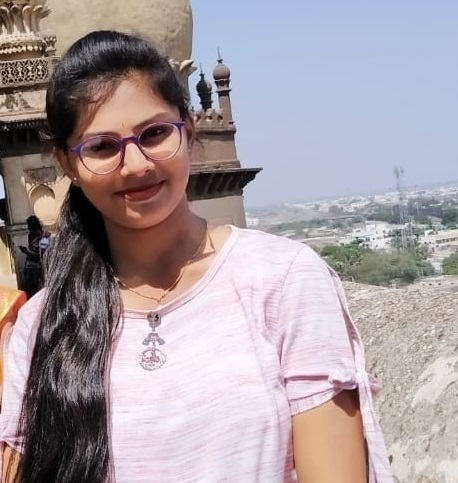
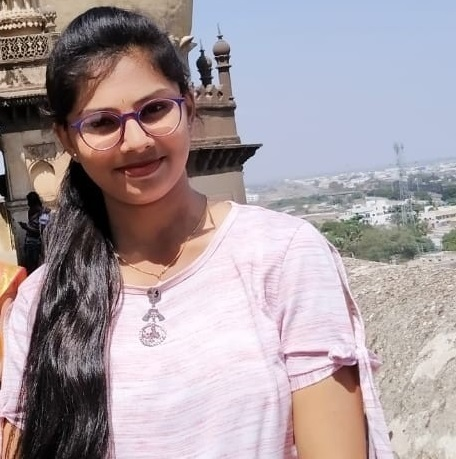
Updated sponsors

diff --git a/index.html b/index.html
@@ -187,8 +187,11 @@
         <div data-aos="fade-up">
           <h4 class="font-weight-bold">Community Sponsors</h4>
           <div class="d-flex flex-wrap justify-content-center align-items-center">
-              <a href="https://www.meetup.com/PyData-Belagavi/" target="_blank"><img src="assets/img/sponsor/pydata.png" width="250" class="m-1" alt="pydata"></a>
-              <a href="https://www.meetup.com/OWASP-Belagavi-Chapter/" target="_blank"><img src="assets/img/sponsor/owasp.png" width="250" class="m-1" alt="owasp" style="background-color: white;"></a>
+              <a href="https://www.meetup.com/PyData-Belagavi/" target="_blank"><img src="assets/img/sponsor/pydata.png" width="250" class="m-2" alt="pydata"></a>
+              <a href="https://www.meetup.com/OWASP-Belagavi-Chapter/" target="_blank"><img src="assets/img/sponsor/owasp.png" width="250" class="m-2" alt="owasp" style="background-color: white;"></a>
+              <a href="https://www.instagram.com/techie_programmer/?hl=en" target="_blank"><img src="assets/img/sponsor/techie_programmer.jpg" width="150" class="m-2" alt="techie_programmer"></a>
+              <a href="https://www.facebook.com/BelagaviKA" target="_blank"><img src="assets/img/sponsor/belagavi.png" width="180" class="m-2" alt="code_for_cause"></a>
+              <a href="https://www.pymug.com/" target="_blank"><img src="assets/img/sponsor/pymug.png" width="130" class="bg-white" class="m-2" alt="pymug"></a>
           </div>
         </div>
       </div>

diff --git a/team.html b/team.html
@@ -140,6 +140,20 @@
 
           <div class="col-lg-3 col-md-6 team-item">
             <div class="team-wrap">
+              <img src="assets/img/team/nikita.jpg" class="img-fluid" alt="">
+              <div class="team-links">
+                <a href="https://github.com/nikitakodkany/"><i class="bx bxl-github"></i></a>
+                <a href="https://www.linkedin.com/in/nikitakodkany"><i class="bx bxl-linkedin"></i></a>
+              </div>
+            </div>
+            <div class="text-center mt-3">
+              <h4 class="font-weight-bold">Nikita Kodkany</h4>
+              <p>Communications</p>
+            </div>
+          </div>
+
+          <div class="col-lg-3 col-md-6 team-item">
+            <div class="team-wrap">
               <img src="assets/img/team/akshata.jpeg" class="img-fluid" alt="">
               <div class="team-links">
                 <a href="https://github.com/akshatagasti123" target="_blank"><i class="bx bxl-github"></i></a>
